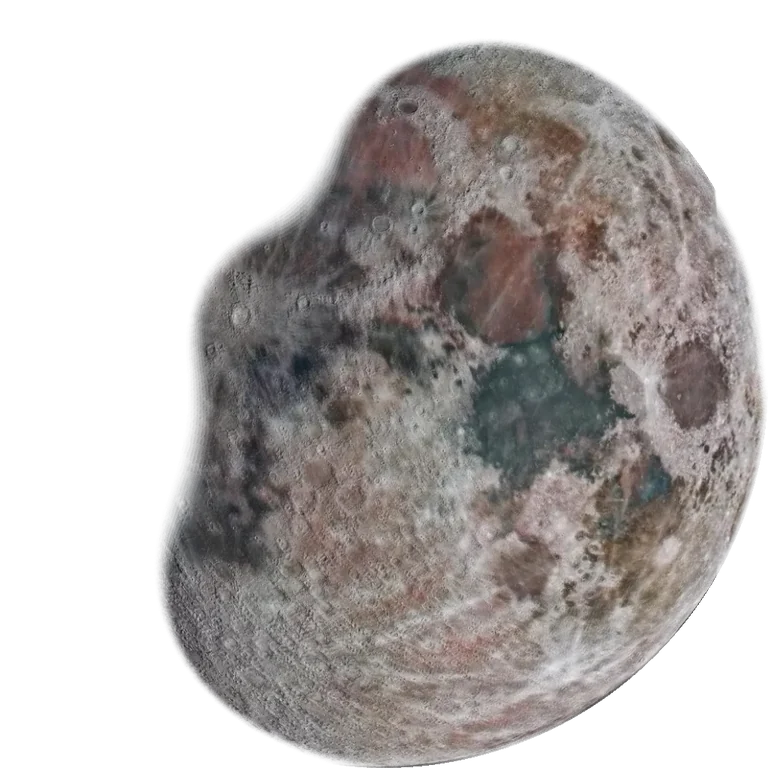
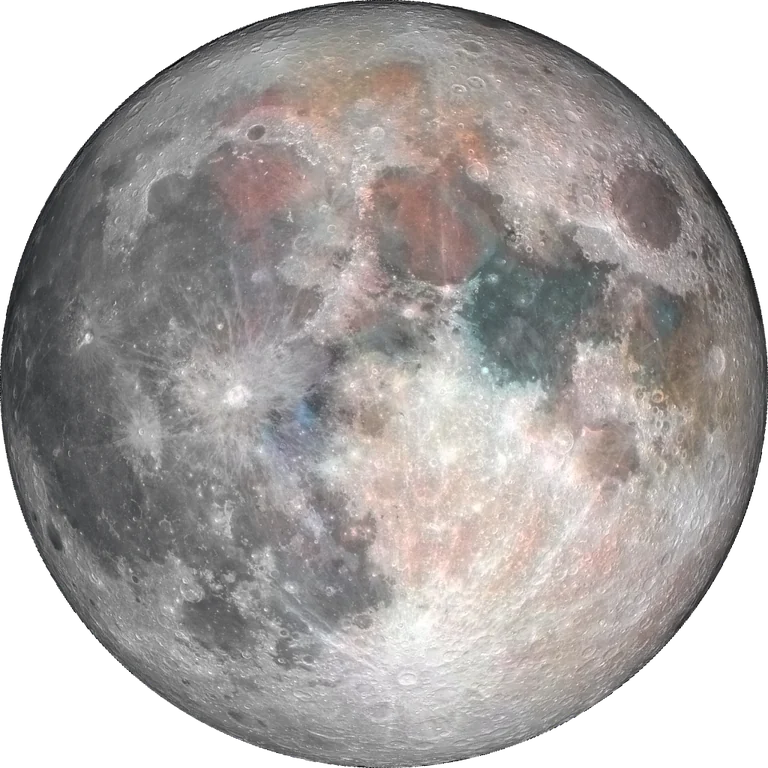
NASA images via the CI pipeline: full LRO Moon, Blue Marble 2012 east, Crab Nebula sky
- Moon: the whole near side from NASA's LRO full-Moon render (north up);
  colour carried over from the mineral-moon mosaic, which turned out to be
  rotated 34 deg from north and is now registered to LRO.
- Earth: Blue Marble 2012 eastern hemisphere (Africa, Arabia, India),
  camera fitted to eight landmarks (rms about 0.5 deg), shared weight over
  the ocean because of sunglint stripes.
- Sky: Hubble's Crab Nebula mosaic (PIA03606) as a fifth background, also
  a StarsDesktop scene (crab).
- Credits in About and the desktop README.

Claude-Session: https://claude.ai/code/session_01XXr1ZBxqSSzcm1NWE2wBtj

diff --git a/solar-system.html b/solar-system.html
@@ -193,11 +193,11 @@
   <div id="pane-about" role="tabpanel" class="about" hidden>
     <p class="lead">Модель Солнечной системы: планеты на своих местах на сегодняшнюю дату, их спутники, кольца, астероиды, кометы, станции и зонды.</p>
     <p><b>Фоновые снимки.</b> Скопление галактик Девы, туманности Лагуна и Трёхраздельная, <a href="https://rubinobservatory.org/gallery/image-releases/rubins-cosmos" target="_blank" rel="noopener">Rubin’s Cosmos</a>.<br>
-      © NSF–DOE Vera C. Rubin Observatory/NOIRLab/SLAC/AURA. Лицензия <a href="https://creativecommons.org/licenses/by/4.0/" target="_blank" rel="noopener">CC BY 4.0</a>, <a href="https://rubinobservatory.org/gallery/media-policy" target="_blank" rel="noopener">правила использования</a>. Снимки уменьшены и затемнены; обсерватория не связана с этим проектом. «Космические утёсы» в туманности Киля — снимок телескопа «Джеймс Уэбб» (NIRCam): NASA, ESA, CSA, STScI.</p>
+      © NSF–DOE Vera C. Rubin Observatory/NOIRLab/SLAC/AURA. Лицензия <a href="https://creativecommons.org/licenses/by/4.0/" target="_blank" rel="noopener">CC BY 4.0</a>, <a href="https://rubinobservatory.org/gallery/media-policy" target="_blank" rel="noopener">правила использования</a>. Снимки уменьшены и затемнены; обсерватория не связана с этим проектом. «Космические утёсы» в туманности Киля — снимок телескопа «Джеймс Уэбб» (NIRCam): NASA, ESA, CSA, STScI. Крабовидная туманность — мозаика «Хаббла»: NASA, ESA, J. Hester, A. Loll (ASU).</p>
     <p><b>Данные.</b> Планеты движутся по круговым орбитам по средним долготам эпохи J2000. Карликовые планеты, астероиды и кометы — по своим орбитальным элементам; у тел без даты перигелия положение на орбите примерное. Спутники Земли и аппараты у Марса показаны на настоящих высотах, наклонах и периодах, но не в реальном времени.</p>
     <p><b>Масштаб.</b> Расстояния и размеры сжаты, чтобы вся система поместилась на экран.</p>
-    <p><b>Луна.</b> Восточные три четверти видимой стороны — «минеральная Луна» астрофотографа, используется с разрешения автора: цвета усилены, синие моря богаты титаном, рыжие — железом. Западный край дорисован по карте морей и кратеров в тех же тонах.</p>
-    <p><b>Земля.</b> Поверхность собрана из трёх снимков целого диска: «Голубой шарик» экипажа «Аполлона-17» (7 декабря 1972 года) и композиты Blue Marble 2002 года над Индийским и Атлантическим океанами (Центр космических полётов Годдарда, данные MODIS). NASA, общественное достояние. Америки — «Голубой шарик» 2012 года со спутника Suomi NPP (NASA, общественное достояние); восточная часть Тихого океана — снимок с «Аполлона» в обработке Тоби Орда (tobyord.com/earth). Западная часть Тихого океана заполнена облаками и морем с соседнего снимка. Земля повёрнута по настоящему звёздному времени, поэтому день и ночь приходятся на те же места, что и сейчас.</p>
+    <p><b>Луна.</b> Видимая сторона — полная Луна по данным зонда Lunar Reconnaissance Orbiter (NASA/GSFC/Arizona State University, общественное достояние). Цвета морей взяты с «минеральной Луны» астрофотографа (с разрешения автора) и усилены: синие моря богаты титаном, рыжие — железом.</p>
+    <p><b>Земля.</b> Поверхность собрана из трёх снимков целого диска: «Голубой шарик» экипажа «Аполлона-17» (7 декабря 1972 года) и композиты Blue Marble 2002 года над Индийским и Атлантическим океанами (Центр космических полётов Годдарда, данные MODIS). NASA, общественное достояние. Америки, Африка, Аравия и Индия — «Голубой шарик» 2012 года со спутника Suomi NPP (NASA, общественное достояние); восточная часть Тихого океана — снимок с «Аполлона» в обработке Тоби Орда (tobyord.com/earth). Западная часть Тихого океана заполнена облаками и морем с соседнего снимка. Земля повёрнута по настоящему звёздному времени, поэтому день и ночь приходятся на те же места, что и сейчас.</p>
     <p><small>Поверхности остальных планет процедурные, нарисованы шейдером, а не взяты с фотографий.</small></p>
   </div>
 </section>
@@ -286,14 +286,15 @@
   const bgCanvas = document.createElement('canvas'), bgClose = document.createElement('canvas'), bgSun = document.createElement('canvas');
   let skyMode = 'cluster';
   // Rubin Observatory images (CC BY 4.0, credited on the page); procedural sky until they load
-  const photos = { cluster: new Image(), spiral: new Image(), nebula: new Image(), field: new Image(), cliffs: new Image(), earth: new Image() };
+  const photos = { cluster: new Image(), spiral: new Image(), nebula: new Image(), field: new Image(), cliffs: new Image(), crab: new Image(), earth: new Image() };
   photos.earth.src = 'img/earth-apollo17.jpg';
-  const earthIndian = new Image(), earthAtlantic = new Image(), earthPacific = new Image(), earthAmericas = new Image();
-  earthIndian.src = 'img/earth-bm-indian.jpg'; earthAtlantic.src = 'img/earth-bm-atlantic.jpg'; earthPacific.src = 'img/earth-apollo-pacific.jpg'; earthAmericas.src = 'img/earth-bm2012-americas.jpg';
+  const earthIndian = new Image(), earthAtlantic = new Image(), earthPacific = new Image(), earthAmericas = new Image(), earthEast = new Image();
+  earthIndian.src = 'img/earth-bm-indian.jpg'; earthAtlantic.src = 'img/earth-bm-atlantic.jpg'; earthPacific.src = 'img/earth-apollo-pacific.jpg'; earthAmericas.src = 'img/earth-bm2012-americas.jpg'; earthEast.src = 'img/earth-bm2012-east.jpg';
   photos.field.src = 'img/rubin-cosmos.jpg';
   photos.cluster.src = 'img/rubin-virgo-cluster.jpg';
   photos.spiral.src = 'img/rubin-virgo-spiral.jpg';
   photos.nebula.src = 'img/rubin-trifid-lagoon.jpg';
+  photos.crab.src = 'img/hubble-crab.jpg';   // Hubble mosaic of the Crab Nebula (PIA03606: NASA, ESA, J. Hester, A. Loll)
   photos.cliffs.src = 'img/webb-cosmic-cliffs.jpg';   // JWST NIRCam, NGC 3324 in the Carina Nebula: NASA, ESA, CSA, STScI
   for (const k in photos) photos[k].onload = () => resetStars();
   const ready = im => im.complete && im.naturalWidth > 0;
@@ -422,12 +423,13 @@
     if (skyMode === 'nebula' && ready(photos.nebula)) photoSky(bgCanvas, photos.nebula, 0.62, 0.55, 0.72);
     else if (skyMode === 'field' && ready(photos.field)) photoSky(bgCanvas, photos.field, 0.5, 0.5, 0.35);
     else if (skyMode === 'cliffs' && ready(photos.cliffs)) photoSky(bgCanvas, photos.cliffs, 0.5, 0.42, 0.62);
+    else if (skyMode === 'crab' && ready(photos.crab)) photoSky(bgCanvas, photos.crab, 0.5, 0.5, 0.7);
     else if (ready(photos.cluster)) photoSky(bgCanvas, photos.cluster, 0.3, 0.45, 0.6);
     // the Sun's close-up sits in front of the Lagoon and Trifid nebulae
     if (ready(photos.nebula)) photoSky(bgSun, photos.nebula, 0.62, 0.55, 0.74);
     else { bgSun.width = bgCanvas.width; bgSun.height = bgCanvas.height; bgSun.getContext('2d').drawImage(bgCanvas, 0, 0); }
     // planet close-ups follow the chosen background, so each screen of a multi-monitor desktop keeps its own sky
-    const closePhoto = { cluster: [photos.spiral, 0.15, 0.3, 0.72], nebula: [photos.nebula, 0.3, 0.4, 0.9], field: [photos.field, 0.35, 0.6, 0.5], cliffs: [photos.cliffs, 0.62, 0.3, 0.6] }[skyMode];
+    const closePhoto = { cluster: [photos.spiral, 0.15, 0.3, 0.72], nebula: [photos.nebula, 0.3, 0.4, 0.9], field: [photos.field, 0.35, 0.6, 0.5], cliffs: [photos.cliffs, 0.62, 0.3, 0.6], crab: [photos.crab, 0.3, 0.3, 0.75] }[skyMode];
     if (closePhoto && ready(closePhoto[0])) photoSky(bgClose, ...closePhoto, true);
     else if (ready(photos.spiral)) photoSky(bgClose, photos.spiral, 0.15, 0.3, 0.72, true);
     else { bgClose.width = bgCanvas.width; bgClose.height = bgCanvas.height; bgClose.getContext('2d').drawImage(bgCanvas, 0, 0); }
@@ -1927,6 +1929,9 @@
     { im: earthPacific, n: 1024, cx: 512.6, cy: 512.2, r: 510.9, lat0: 32.99, lon0: -111.13, rho: 20.92, D: 6.45, east: 0.6 },
     // NASA's Blue Marble 2012 (Suomi NPP VIIRS, public domain): the Americas fully lit, the sharpest of the set, so it
     // outweighs the others where they overlap; camera fitted to Baja California, the Salton Sea, Florida and Cuba (rms ≈ 0.6°)
+    // Blue Marble 2012, eastern hemisphere (NASA, public domain): Africa, Arabia, India; some sunglint stripes over the
+    // ocean, so it only shares the weight there; camera fitted to Africa's capes, Suez, Hormuz, Madagascar, India (rms ≈ 0.5°)
+    { im: earthEast, n: 1024, cx: 512.0, cy: 512.0, r: 511.8, lat0: -9.99, lon0: 45.21, rho: 0.08, D: 3.316, east: 2, k: 1.5 },
     { im: earthAmericas, n: 1024, cx: 511.94, cy: 511.83, r: 511.94, lat0: 20.78, lon0: -100.10, rho: -0.11, D: 1.334, east: 2, k: 10 },
   ];
   for (const q of EARTH_PHOTOS) {   // camera basis: centre c, image right a, image up b
@@ -2887,13 +2892,13 @@
   window.solarBack = () => { if (!panel.hidden) { setMenu(false); return true; } if (closeTarget === 1 || pendingSel !== undefined || focus) { choose(null); return true; } return false; };   // Android back button
   const skyBtn = document.getElementById('t-sky');
   skyBtn.addEventListener('click', () => {
-    const order = ['cluster', 'nebula', 'field', 'cliffs'];
+    const order = ['cluster', 'nebula', 'field', 'cliffs', 'crab'];
     skyMode = order[(order.indexOf(skyMode) + 1) % order.length];
     setSky(skyMode);
   });
   function setSky(mode) {
     skyMode = mode;
-    skyBtn.textContent = { cluster: 'Фон: скопление Девы', nebula: 'Фон: Лагуна и Трёхраздельная', field: 'Фон: Rubin’s Cosmos', cliffs: 'Фон: Космические утёсы (Уэбб)' }[skyMode];
+    skyBtn.textContent = { cluster: 'Фон: скопление Девы', nebula: 'Фон: Лагуна и Трёхраздельная', field: 'Фон: Rubin’s Cosmos', cliffs: 'Фон: Космические утёсы (Уэбб)', crab: 'Фон: Крабовидная туманность (Хаббл)' }[skyMode];
     resetStars();
   }
   const constBtn = document.getElementById('t-const');
@@ -3119,7 +3124,7 @@
     // per-screen choice: background, view and panel, from #wallpaper&sky=nebula&view=saturn&panel=0
     // or from StarsDesktop's {type:'config'} message (one wallpaper window per monitor)
     function applyWall(o) {
-      if (['cluster', 'nebula', 'field', 'cliffs'].includes(o.sky) && o.sky !== skyMode) setSky(o.sky);
+      if (['cluster', 'nebula', 'field', 'cliffs', 'crab'].includes(o.sky) && o.sky !== skyMode) setSky(o.sky);
       if (o.view && o.view !== wallView && (o.view === 'tour' || o.view === 'overview' || o.view === 'far' || BODIES.some(b => b.id === o.view))) {
         wallView = o.view;
         choose(wallView === 'tour' ? null : target(wallView));

diff --git a/desktop/engine/Settings.cs b/desktop/engine/Settings.cs
@@ -89,7 +89,7 @@ sealed class Settings
 
 sealed class MonitorSettings
 {
-    [JsonPropertyName("scene")] public string Scene { get; set; } = "cluster";   // cluster | nebula | field | cliffs | milkyway
+    [JsonPropertyName("scene")] public string Scene { get; set; } = "cluster";   // cluster | nebula | field | cliffs | crab | milkyway
     [JsonPropertyName("view")] public string View { get; set; } = "tour";         // tour | overview | sun | mercury … neptune | far
     [JsonPropertyName("panel")] public bool? Panel { get; set; }                 // clock, meetings, messages
 
@@ -99,6 +99,7 @@ sealed class MonitorSettings
         ("nebula", "Туманности Лагуна и Трёхраздельная"),
         ("field", "Rubin’s Cosmos (тысячи галактик)"),
         ("cliffs", "Космические утёсы (телескоп «Уэбб»)"),
+        ("crab", "Крабовидная туманность (телескоп «Хаббл»)"),
         ("milkyway", "Млечный Путь (вся галактика)"),
     };
 

diff --git a/desktop/README.md b/desktop/README.md
@@ -51,6 +51,7 @@ Outlook в интернете ──(ссылка ICS)──┐
   - туманности Лагуна и Трёхраздельная;
   - Rubin’s Cosmos (поле из тысяч далёких галактик);
   - Космические утёсы — снимок телескопа «Джеймс Уэбб», туманность Киля;
+  - Крабовидная туманность — мозаика «Хаббла», остаток сверхновой 1054 года;
   - **Млечный Путь** — вместо Солнечной системы на экране вся наша Галактика, она медленно вращается и покачивается.
 - **Вид:**
   - облёт планет (по умолчанию);
@@ -69,7 +70,7 @@ Outlook в интернете ──(ссылка ICS)──┐
 ]
 ```
 
-`scene`: `cluster`, `nebula`, `field`, `cliffs`, `milkyway`. `view`: `tour`, `overview`, `sun`, `mercury`, `venus`, `earth`, `mars`, `jupiter`, `saturn`, `uranus`, `neptune`, `far`.
+`scene`: `cluster`, `nebula`, `field`, `cliffs`, `crab`, `milkyway`. `view`: `tour`, `overview`, `sun`, `mercury`, `venus`, `earth`, `mars`, `jupiter`, `saturn`, `uranus`, `neptune`, `far`.
 
 ### Качество и видеокарта
 
